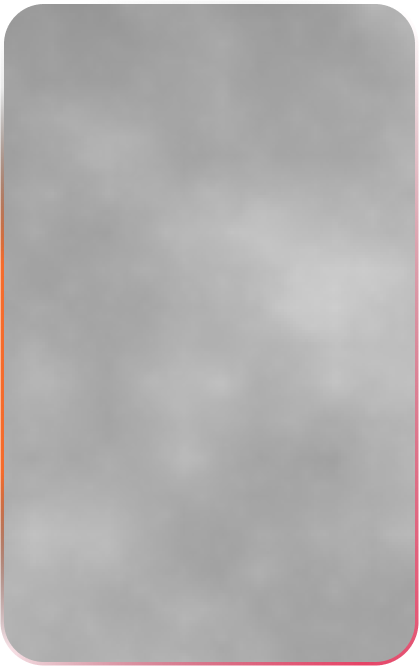
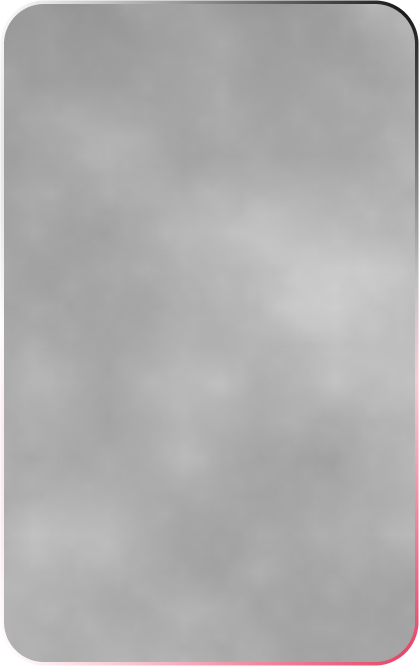
cleaned up pages directory

Changed region(s): [[0.1241, 0.0, 1.0, 0.8108], [0.0, 0.1502, 0.0621, 0.991], [0.0621, 0.991, 0.8377, 1.0]]

diff --git a/pages/index.vue b/pages/index.vue
@@ -1,6 +1,6 @@
 <template>
   <section class="container">
-    <!-- <CardCopy class="container__card"></CardCopy> -->
+    <Card class="container__card"></Card>
     <div class="container__text">
       <h1>
         I Build Amazing <br />
@@ -23,11 +23,17 @@ export default Vue.extend({})
   width: 100%;
   height: 80vh;
   display: flex;
-  justify-content: flex-end;
+  justify-content: space-between;
   align-items: center;
-  color: #e5e5e5;
   text-align: justify;
-  background: url('~assets/bgcard.svg') no-repeat 0% 50%;
+  color: #e5e5e5;
+  &__card {
+    display: flex;
+    align-items: center;
+    justify-content: flex-start;
+    width: 50%;
+    height: 100%;
+  }
   &__text {
     width: 50%;
     height: 100%;
@@ -54,7 +60,7 @@ export default Vue.extend({})
   &__button {
     background: radial-gradient(
         84.24% 527.68% at 80% 50.25%,
-      #e64467 0%,
+        #e64467 0%,
         rgba(230, 68, 103, 0) 100%,
         rgba(230, 68, 103, 0.5) 100%
       ),
@@ -78,18 +84,14 @@ export default Vue.extend({})
     animation: slide-up 1000ms;
   }
 }
-@media only screen and(max-width: 1480px) {
-  .container {
-    background-position: -50% 50%;
-    background-size: 70% 70%;
-  }
-}
 @media only screen and(max-width: 1268px) {
   .container {
-    flex-direction: column;
-    align-items: flex-start;
-    background-position: 100% 35%;
-    background-size: 40% 40%;
+    flex-direction: row-reverse;
+    justify-content: space-between;
+    &__card {
+      padding-bottom: 9rem;
+      justify-content: flex-end;
+    }
     &__text {
       justify-content: center;
       h1 {
@@ -106,22 +108,28 @@ export default Vue.extend({})
     }
   }
 }
-
-@media only screen and(max-width: 480px) {
+@media only screen and(max-width: 768px) {
   .container {
-    width: 100vw;
-    background-position: 50% 0%;
-    background-size: 50% 50%;
-    align-items: center;
-
+    flex-direction: column;
+    &__card {
+      padding-bottom: 0rem;
+      align-self: flex-end;
+    }
     &__text {
-      justify-content: flex-end;
+      align-self: flex-start;
+    }
+  }
+}
+@media only screen and(max-width: 725px) {
+  .container {
+    justify-content: center;
+    align-items: center;
+    &__card {
+      align-self: center;
+    }
+    &__text {
+      align-self: center;
       text-align: center;
-      h1,
-      h4 {
-        margin-bottom: 1rem;
-        letter-spacing: 0em;
-      }
     }
   }
 }

diff --git a/components/Project.vue b/components/Project.vue
@@ -172,7 +172,7 @@ export default Vue.extend({
       border-left: none;
       width: 100%;
       border-top: 5px solid var(--primary-color);
-      background: #3b3a3a;
+      border-bottom: 5px solid var(--primary-color);
       border-radius: 40px;
       padding: 1rem;
       justify-content: center;

diff --git a/components/Card.vue b/components/Card.vue
@@ -56,7 +56,7 @@ export default {}
     border-radius: 40px;
     mix-blend-mode: overlay;
     z-index: 10;
-    background-image: url('~assets/noiseb.png'),
+    background-image: url('~assets/noise.png'),
       radial-gradient(
         97.27% 97.27% at 0% 2.73%,
         rgba(255, 255, 255, 0.4) 0%,

diff --git a/components/Nav.vue b/components/Nav.vue
@@ -4,7 +4,6 @@
       <ul>
         <nuxt-link to="/"><li>Home</li></nuxt-link>
         <nuxt-link to="/projects"><li>Projects</li></nuxt-link>
-        <nuxt-link to="/glass"><li>Glass</li></nuxt-link>
       </ul>
     </nav>
   </header>
